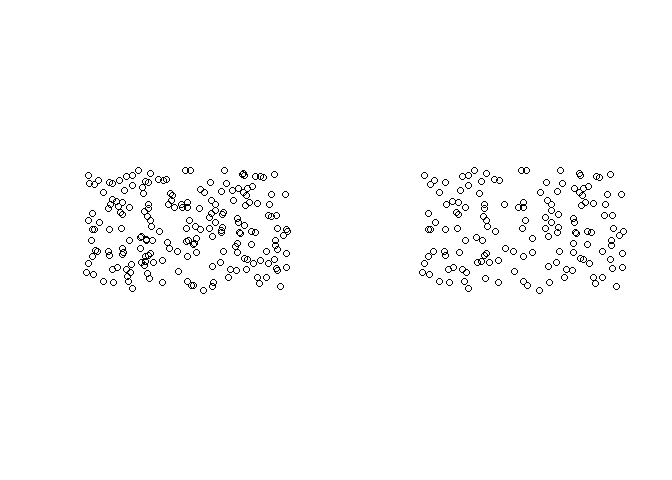
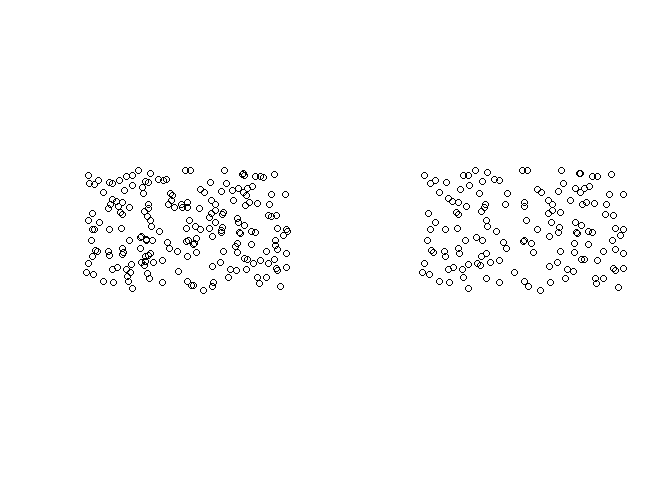
adding image

diff --git a/docs/index.html b/docs/index.html
@@ -135,6 +135,7 @@
 <a class="sourceLine" id="cb3-3" title="3"><span class="kw"><a href="https://rdrr.io/r/graphics/plot.html">plot</a></span>(x<span class="op">$</span>geometry, <span class="dt">col =</span> <span class="kw"><a href="https://rdrr.io/r/base/unlist.html">unlist</a></span>(x<span class="op">$</span>received_weights))</a></code></pre></div>
 <p><img src="reference/figures/README-unnamed-chunk-2-1.png" width="100%"></p>
 <p><code>gridWeighted</code> is adding columns row.id - the cell’s number, col.id - the point’s number, received_weights - the weight of each cell and lengths - amounts of each points in cell. <code>gridWeighted</code> does not change amount of features. Weights are calculated according to this pattern:</p>
+<p><img src="cell_decl_pattern.PNG" alt="pattern"></p>
 <p>where ni is the number of samples in the cell in which sample j is located and n is the total number cells with samples.</p>
 <p>This is basic example of random declustering:</p>
 <div class="sourceCode" id="cb4"><pre class="sourceCode r"><code class="sourceCode r"><a class="sourceLine" id="cb4-1" title="1">y =<span class="st"> </span><span class="kw"><a href="reference/gridRandom.html">gridRandom</a></span>(<span class="dt">spatial_object =</span> points4, <span class="dt">cellsize =</span> <span class="fl">0.09</span> , <span class="dt">numpoint =</span> <span class="dv">2</span>)</a>
@@ -143,7 +144,7 @@
 <a class="sourceLine" id="cb4-4" title="4"><span class="co">#&gt; Geometry set for 144 features </span></a>
 <a class="sourceLine" id="cb4-5" title="5"><span class="co">#&gt; geometry type:  POINT</span></a>
 <a class="sourceLine" id="cb4-6" title="6"><span class="co">#&gt; dimension:      XY</span></a>
-<a class="sourceLine" id="cb4-7" title="7"><span class="co">#&gt; bbox:           xmin: -1.032267 ymin: -0.1410416 xmax: 0.09442347 ymax: 0.5297012</span></a>
+<a class="sourceLine" id="cb4-7" title="7"><span class="co">#&gt; bbox:           xmin: -1.032267 ymin: -0.1410416 xmax: 0.08642316 ymax: 0.5297012</span></a>
 <a class="sourceLine" id="cb4-8" title="8"><span class="co">#&gt; epsg (SRID):    4326</span></a>
 <a class="sourceLine" id="cb4-9" title="9"><span class="co">#&gt; proj4string:    +proj=longlat +datum=WGS84 +no_defs</span></a>
 <a class="sourceLine" id="cb4-10" title="10"><span class="co">#&gt; First 5 geometries:</span></a>
@@ -151,7 +152,7 @@
 <a class="sourceLine" id="cb4-12" title="12"><span class="co">#&gt; POINT (-0.9401051 -0.09067107)</span></a>
 <a class="sourceLine" id="cb4-13" title="13"><span class="co">#&gt; POINT (-0.881981 -0.09763874)</span></a>
 <a class="sourceLine" id="cb4-14" title="14"><span class="co">#&gt; POINT (-0.7750732 -0.1312637)</span></a>
-<a class="sourceLine" id="cb4-15" title="15"><span class="co">#&gt; POINT (-0.7998737 -0.09106148)</span></a></code></pre></div>
+<a class="sourceLine" id="cb4-15" title="15"><span class="co">#&gt; POINT (-0.8030895 -0.0664513)</span></a></code></pre></div>
 <p>Plot input data and data after random declustering:</p>
 <div class="sourceCode" id="cb5"><pre class="sourceCode r"><code class="sourceCode r"><a class="sourceLine" id="cb5-1" title="1"><span class="kw"><a href="https://rdrr.io/r/graphics/par.html">par</a></span>(<span class="dt">mfrow=</span><span class="kw"><a href="https://rdrr.io/r/base/c.html">c</a></span>(<span class="dv">1</span>,<span class="dv">2</span>))</a>
 <a class="sourceLine" id="cb5-2" title="2"><span class="kw"><a href="https://rdrr.io/r/graphics/plot.html">plot</a></span>(x<span class="op">$</span>geometry)</a>

diff --git a/README.md b/README.md
@@ -82,6 +82,8 @@ the point’s number, received\_weights - the weight of each cell and
 lengths - amounts of each points in cell. `gridWeighted` does not change
 amount of features. Weights are calculated according to this pattern:
 
+![pattern](cell_decl_pattern.PNG)
+
 where ni is the number of samples in the cell in which sample j is
 located and n is the total number cells with samples.
 
@@ -94,7 +96,7 @@ y
 #> Geometry set for 144 features 
 #> geometry type:  POINT
 #> dimension:      XY
-#> bbox:           xmin: -1.032267 ymin: -0.1410416 xmax: 0.09442347 ymax: 0.5297012
+#> bbox:           xmin: -1.032267 ymin: -0.1410416 xmax: 0.08642316 ymax: 0.5297012
 #> epsg (SRID):    4326
 #> proj4string:    +proj=longlat +datum=WGS84 +no_defs
 #> First 5 geometries:
@@ -102,7 +104,7 @@ y
 #> POINT (-0.9401051 -0.09067107)
 #> POINT (-0.881981 -0.09763874)
 #> POINT (-0.7750732 -0.1312637)
-#> POINT (-0.7998737 -0.09106148)
+#> POINT (-0.8030895 -0.0664513)
 ```
 
 Plot input data and data after random declustering:
